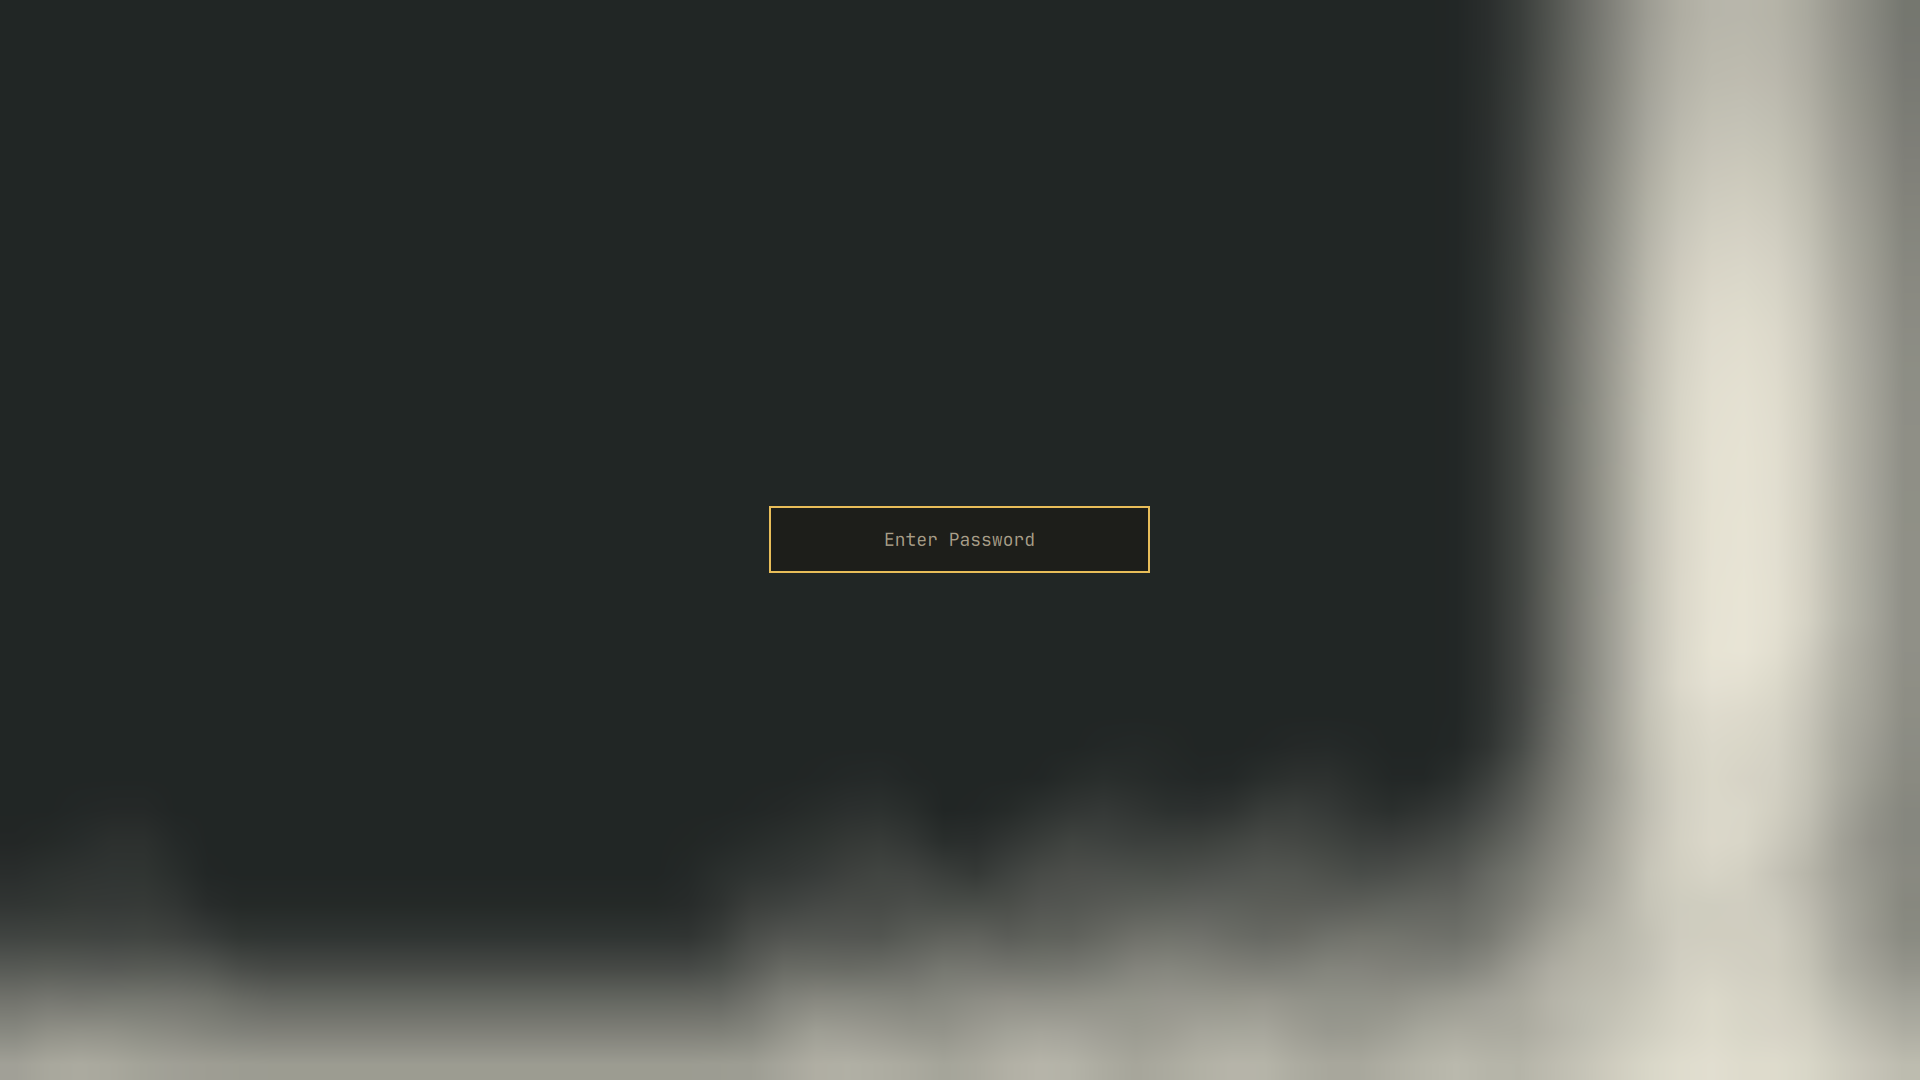
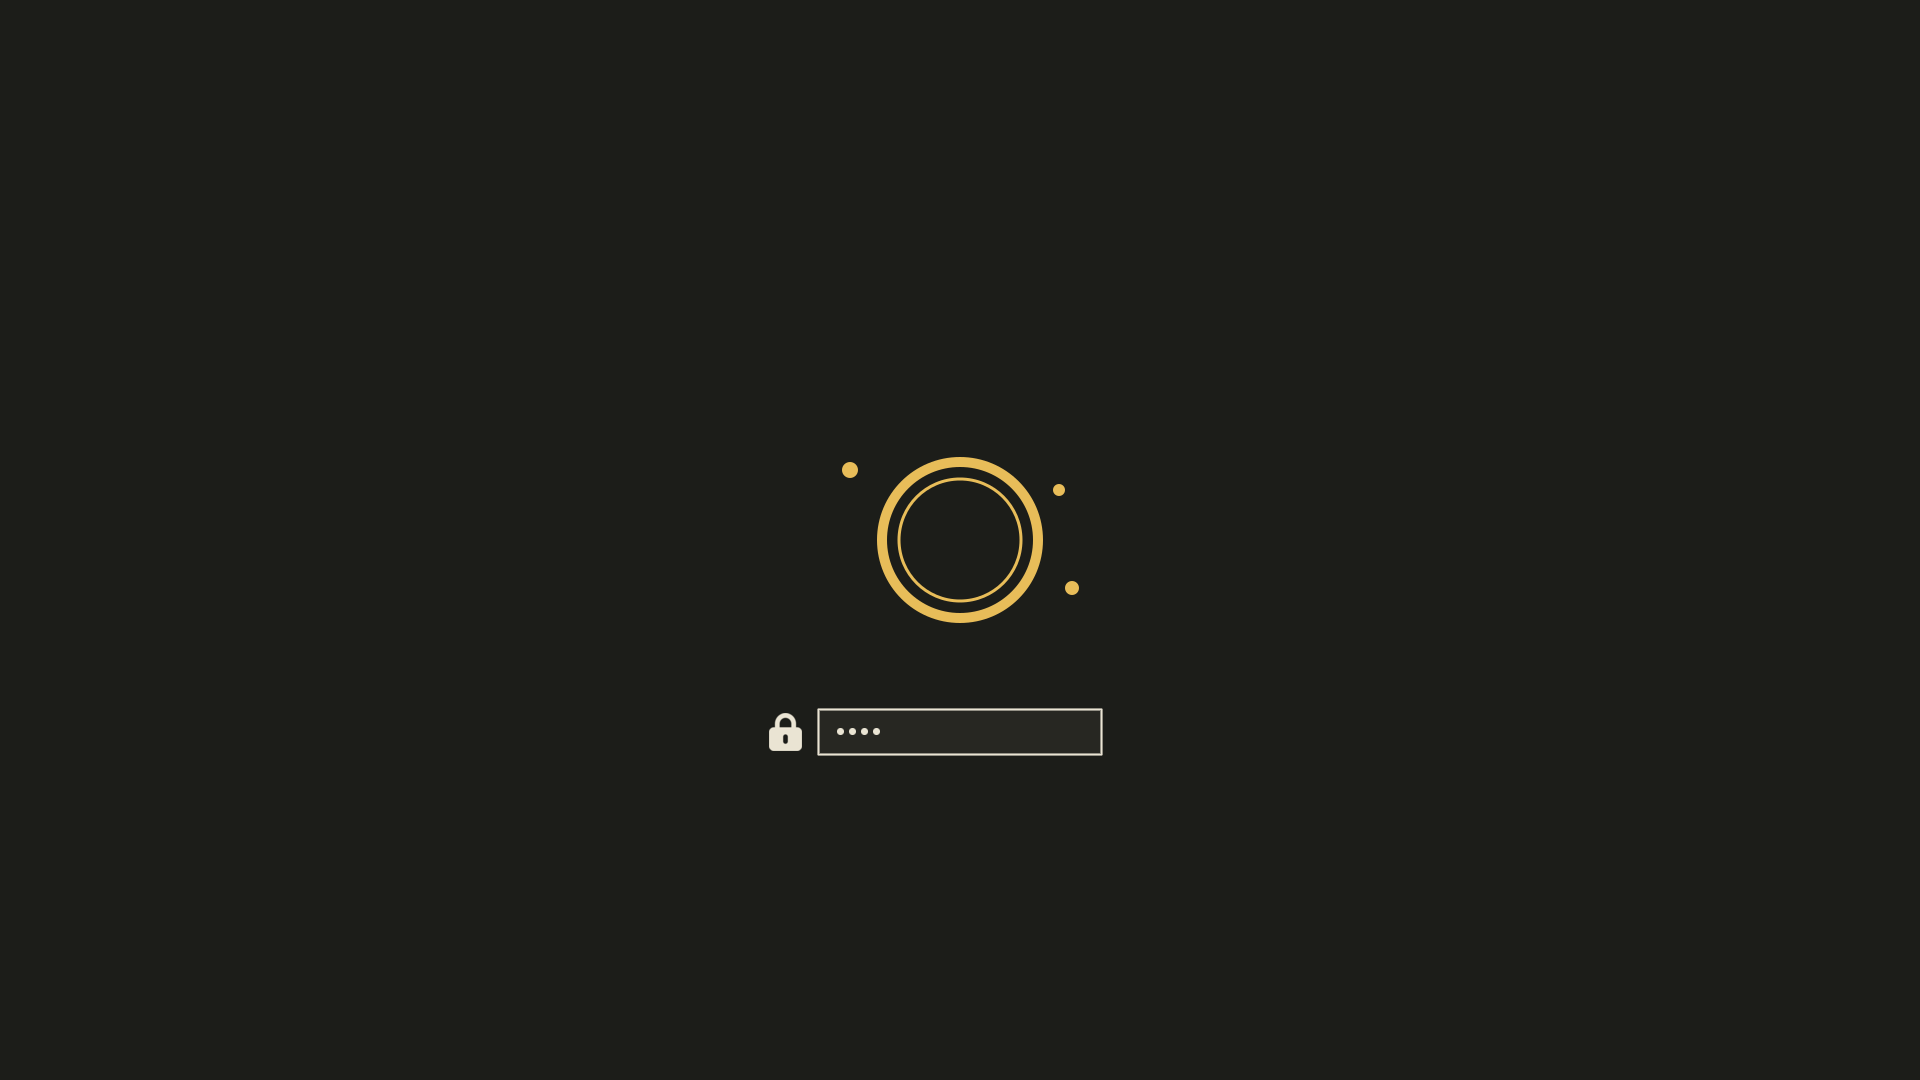
Fix Plymouth preview and wordmark wallpaper

diff --git a/PREVIEWS.md b/PREVIEWS.md
@@ -1,18 +1,19 @@
 # Proveniência das prévias
 
-As duas prévias foram capturadas em 19 de setembro de 2026 com este tema
-realmente aplicado no Omarchy Quattro. Não são imagens geradas por IA,
-recolorizações nem capturas emprestadas de temas oficiais.
+As prévias foram produzidas em 19 de setembro de 2026 para este tema no
+Omarchy Quattro. Não são imagens geradas por IA nem capturas emprestadas de
+outros temas.
 
 - `preview.png`: sessão real com a barra do Omarchy, Neovim, Files e btop.
-- `preview-unlock.png`: tela real aberta pelo modo seguro
-  `omarchy-shell lock preview`, sem bloquear a sessão.
+- `preview-unlock.png`: representação do desbloqueio de disco Plymouth,
+  renderizada com `unlock.png`, a paleta do tema e os mesmos assets e geometria
+  do renderizador oficial `omarchy-plymouth-preview`.
 
 Os quatro temas da coleção usam o mesmo código de exemplo, layout de janelas e
-procedimento de captura para permitir comparação direta. Transparência,
-wallpaper, bordas, ícones e cores visíveis vêm do tema ativo.
+procedimento para permitir comparação direta. Transparência, wallpaper,
+bordas, ícones e cores da captura do desktop vêm do tema ativo.
 
 O seletor de temas do Omarchy lê `preview.png` diretamente da raiz deste
 repositório. Portanto, a imagem exibida no GitHub e no sistema é o mesmo
-arquivo. `preview-unlock.png` documenta o bloqueio da sessão; `unlock.png`
-pertence à interface separada do Plymouth.
+arquivo. `preview-unlock.png` documenta a interface separada do Plymouth; não
+é uma captura do bloqueio da sessão.

diff --git a/README.md b/README.md
@@ -32,7 +32,7 @@ dependendo do Omarchy e do próprio VS Code.
 - Treze integrações opcionais em [INTEGRATIONS.md](INTEGRATIONS.md).
 - Três wallpapers fornecidos pelo usuário, preservados sem cortes ou upscale.
 - Quarto wallpaper com a logo vetorial oficial, renderizado em 3840×2160.
-- Ícones Yaru Yellow e capturas reais do desktop e da tela de bloqueio.
+- Ícones Yaru Yellow, captura real do desktop e prévia fiel do Plymouth.
 
 O wallpaper de Natal é mais claro e tem proporção diferente de 16:9; o ajuste
 à tela depende do compositor. O primeiro wallpaper é o padrão escuro.
@@ -47,13 +47,12 @@ python3 scripts/validate-theme.py
 ```
 
 Python 3.11+; librsvg (`rsvg-convert`) apenas para renderizar os assets vetoriais.
-Os PNGs já estão incluídos. `preview-unlock.png` mostra a prévia real do bloqueio
-da sessão; `unlock.png` é o símbolo usado pelo desbloqueio de disco (Plymouth),
-que é uma interface distinta.
+Os PNGs já estão incluídos. `preview-unlock.png` reproduz o desbloqueio de disco
+do Plymouth usando `unlock.png`, a paleta e a geometria oficial do Omarchy.
 Neovim e terminais continuam seguindo os templates oficiais do sistema.
 
-## Tela de bloqueio
+## Desbloqueio de disco
 
-![Captura real da tela de bloqueio](preview-unlock.png)
+![Prévia do desbloqueio de disco](preview-unlock.png)
 
 [Créditos e condições das imagens](ATTRIBUTIONS.md). Código: [MIT](LICENSE).

diff --git a/README.en.md b/README.en.md
@@ -19,9 +19,9 @@ root-level VS Code and Helix color overrides, and thirteen optional integrations
 Three user-provided wallpapers are preserved without cropping or upscaling; the
 fourth is a 3840×2160 Omarchy wordmark composition.
 
-`preview.png` and `preview-unlock.png` are real captures from Omarchy. The lock
-preview was opened through Omarchy's safe preview mode, without locking the
-session. `unlock.png` belongs to the separate Plymouth disk-unlock interface.
+`preview.png` is a real Omarchy capture. `preview-unlock.png` faithfully renders
+the Plymouth disk-unlock interface with the theme's `unlock.png`, palette, and
+Omarchy's official geometry.
 
 No VS Code reload hook is installed by this theme. See [INTEGRATIONS.md](INTEGRATIONS.md)
 for optional app setup and [ATTRIBUTIONS.md](ATTRIBUTIONS.md) for image rights.
@@ -29,6 +29,7 @@ for optional app setup and [ATTRIBUTIONS.md](ATTRIBUTIONS.md) for image rights.
 ```sh
 python3 scripts/generate-code-theme.py
 python3 scripts/generate-integrations.py
+sh scripts/render-assets.sh
 python3 scripts/validate-theme.py
 ```
 

diff --git a/ATTRIBUTIONS.md b/ATTRIBUTIONS.md
@@ -12,9 +12,9 @@ publicar ou redistribuir os wallpapers.
 
 A logo vetorial vem de /usr/share/omarchy/logo.svg, do projeto Omarchy.
 O wallpaper com a logo e o símbolo lunar foram compostos para este tema. A logo
-mantém a geometria original, sem contorno ou sombra. `preview.png` e
-`preview-unlock.png` são capturas reais do tema aplicado no Omarchy; não contêm
-assets adicionais além dos já descritos aqui e não foram geradas por IA,
-recoloridas ou emprestadas de outro tema. Veja [PREVIEWS.md](PREVIEWS.md).
+mantém a geometria original, sem contorno ou sombra. `preview.png` é uma captura
+real do tema aplicado no Omarchy; `preview-unlock.png` é renderizado com os
+assets oficiais do Plymouth e o símbolo do tema. Nenhuma prévia foi gerada por
+IA ou emprestada de outro tema. Veja [PREVIEWS.md](PREVIEWS.md).
 
 Base de código: Omarchy Mooni, do mesmo autor, sob MIT.

diff --git a/REVIEW.md b/REVIEW.md
@@ -11,8 +11,8 @@ minimum measured syntax contrast is 6.56:1 against the editor background.
 
 The repository does not ship Lua, terminal launch configuration, `vscode.json`
 or automatic editor reload hooks. Neovim and terminal files remain generated by
-the installed Omarchy version. Real desktop and session-lock captures are used
-for both GitHub and the Omarchy selector.
+the installed Omarchy version. The desktop preview is a real capture; the disk
+unlock preview follows Omarchy's official Plymouth renderer.
 
 References:
 
